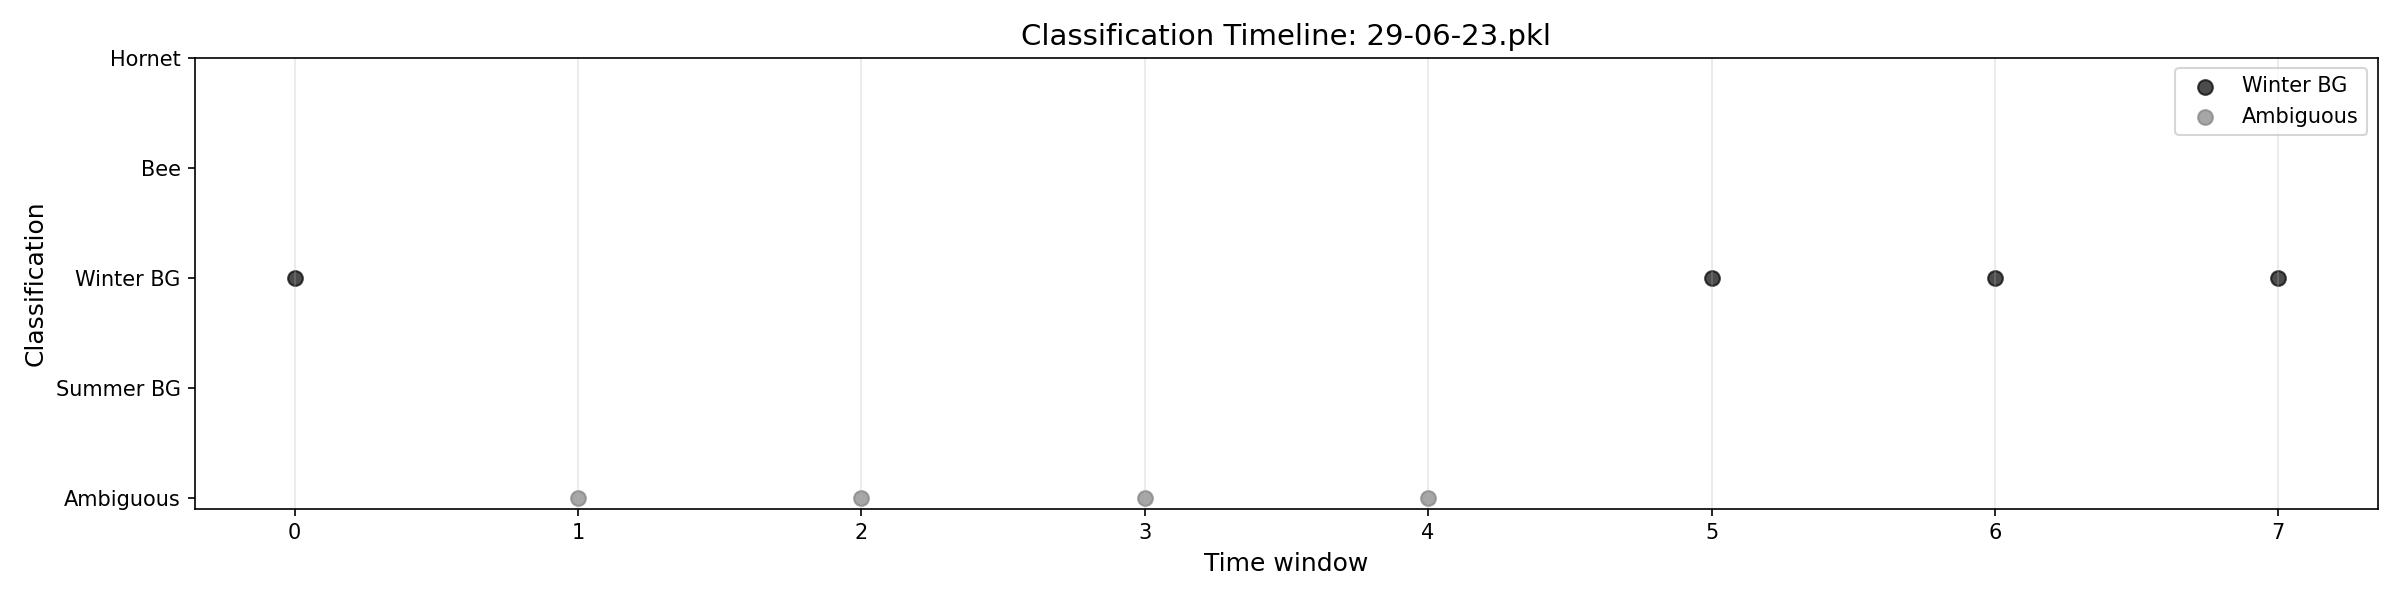
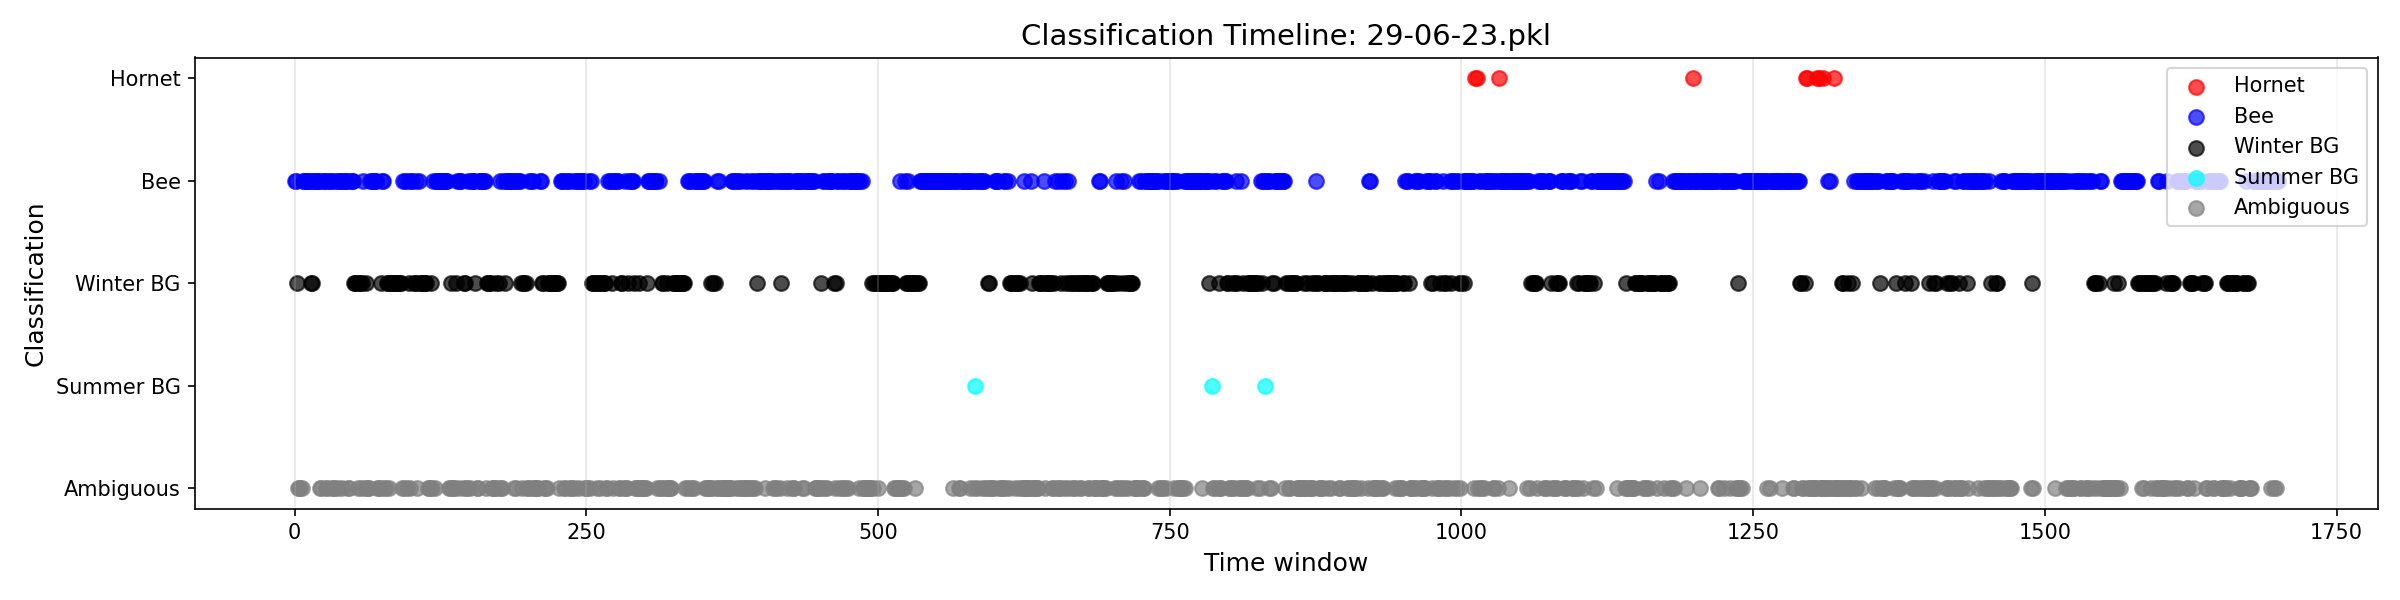
re-run the classification against the full test file for both the algorithmic detection aswell as the ML based one

diff --git a/CCP.py b/CCP.py
@@ -60,7 +60,14 @@ def analyze_audio_file(audio_file, start_min=0, start_sec=0, end_min=0, end_sec=
 
     # Calculate time range
     start_sample = int((start_min * 60 + start_sec) * sample_rate)
-    end_sample = int((end_min * 60 + end_sec) * sample_rate)
+
+    # If end time is not specified (both 0), process entire file from start
+    if end_min == 0 and end_sec == 0:
+        end_sample = len(audio)
+        print(f"  Processing entire file from {start_min}:{start_sec:02.0f}")
+    else:
+        end_sample = int((end_min * 60 + end_sec) * sample_rate)
+        print(f"  Processing {start_min}:{start_sec:02.0f} to {end_min}:{end_sec:02.0f}")
 
     # Extract segment
     U = audio[start_sample:end_sample]
@@ -127,21 +134,49 @@ def main():
     """
     Main function to analyze a test recording.
     """
-    # Example: analyze file 29-06-23.wav from 15:06 to 15:15
-    audio_file = 'data/29-06-23.wav'
+    import argparse
+    import os
+
+    parser = argparse.ArgumentParser(
+        description='Analyze audio recording with CCP (Continuous Cross-correlation Product)'
+    )
+    parser.add_argument('audio_file', type=str, nargs='?', default='data/29-06-23.wav',
+                        help='Path to audio file (default: data/29-06-23.wav)')
+    parser.add_argument('--start-min', type=int, default=0,
+                        help='Start time in minutes (default: 0)')
+    parser.add_argument('--start-sec', type=float, default=0,
+                        help='Start time seconds component (default: 0)')
+    parser.add_argument('--end-min', type=int, default=0,
+                        help='End time in minutes (default: 0 = entire file)')
+    parser.add_argument('--end-sec', type=float, default=0,
+                        help='End time seconds component (default: 0)')
+    parser.add_argument('--increment', type=float, default=1.0,
+                        help='Window increment in seconds (default: 1.0)')
+    parser.add_argument('--output', type=str, default=None,
+                        help='Output pickle file name (default: auto-generate from input)')
+
+    args = parser.parse_args()
 
     print("Starting CCP analysis...")
     print("=" * 60)
 
     df_x, df_y, index_array = analyze_audio_file(
-        audio_file,
-        start_min=15, start_sec=6,
-        end_min=15, end_sec=15,
-        increment_sec=1.0
+        args.audio_file,
+        start_min=args.start_min,
+        start_sec=args.start_sec,
+        end_min=args.end_min,
+        end_sec=args.end_sec,
+        increment_sec=args.increment
     )
 
     # Save results
-    output_file = '29-06-23.pkl'
+    if args.output:
+        output_file = args.output
+    else:
+        # Generate output filename from input
+        base_name = os.path.splitext(os.path.basename(args.audio_file))[0]
+        output_file = f'{base_name}.pkl'
+
     results = {
         'df_x': df_x,
         'df_y': df_y,

diff --git a/classify_with_ml.py b/classify_with_ml.py
@@ -71,7 +71,14 @@ def extract_features_from_audio(audio_file, start_min=0, start_sec=0,
 
     # Calculate time range
     start_sample = int((start_min * 60 + start_sec) * sample_rate)
-    end_sample = int((end_min * 60 + end_sec) * sample_rate)
+
+    # If end time is not specified (both 0), process entire file from start
+    if end_min == 0 and end_sec == 0:
+        end_sample = len(audio)
+        print(f"  Processing entire file from {start_min}:{start_sec:02.0f}")
+    else:
+        end_sample = int((end_min * 60 + end_sec) * sample_rate)
+        print(f"  Processing {start_min}:{start_sec:02.0f} to {end_min}:{end_sec:02.0f}")
 
     # Extract segment
     U = audio[start_sample:end_sample]

diff --git a/README.md b/README.md
@@ -183,18 +183,27 @@ python PCA_DFA.py
 
 ### 4. Analyze New Recordings
 
-Update the audio file path in `CCP.py`:
+Run CCP analysis on audio files:
 
-```python
-audio_file = 'data/29-06-23.wav'
-```
-
-Run CCP analysis:
 ```bash
-python CCP.py
+# Process entire file (default)
+python CCP.py data/29-06-23.wav
+
+# Process specific time segment
+python CCP.py data/29-06-23.wav \
+    --start-min 15 --start-sec 6 \
+    --end-min 15 --end-sec 15
+
+# Process from start time to end of file
+python CCP.py data/29-06-23.wav --start-min 10 --start-sec 0
+
+# Custom output filename
+python CCP.py data/my_recording.wav --output my_results.pkl
 ```
 
 **Output**: `29-06-23.pkl` (DF scores for each time window)
+
+**Note**: The time range you specify here determines what will be classified in the next step!
 
 ---
 
@@ -265,21 +274,25 @@ This will:
 Classify new audio directly without CCP step:
 
 ```bash
+# Classify entire audio file (default behavior)
+python classify_with_ml.py data/29-06-23.wav
+
 # Classify a specific time segment
 python classify_with_ml.py data/29-06-23.wav \
     --start-min 15 --start-sec 6 \
     --end-min 15 --end-sec 15 \
     --increment 1.0
 
-# Classify entire file
+# Classify from start to specific end time
 python classify_with_ml.py data/29-06-23.wav \
     --end-min 10 --end-sec 0
 
 # Custom output filename
 python classify_with_ml.py data/my_recording.wav \
-    --end-min 5 --end-sec 0 \
     --output my_results.pkl
 ```
+
+**Note**: If `--end-min` and `--end-sec` are not specified (or both are 0), the script processes the entire file from the start time.
 
 **Outputs**:
 - `*_ml_classified.pkl`: Classification results with probabilities
@@ -289,19 +302,44 @@ python classify_with_ml.py data/my_recording.wav \
 
 ### Comparing Both Approaches
 
-#### Step 1: Run Both Classifications
+#### Step 1: Run Both Classifications on Same Segment
 
 ```bash
-# Approach A (Polygon) - produces 29-06-23.pkl and 29-06-23_test_results.pkl
-python CCP.py
+# Define the segment to analyze (example: 15:06 to 15:15)
+START_MIN=15
+START_SEC=6
+END_MIN=15
+END_SEC=15
+
+# Approach A (Polygon)
+# Step 1a: Compute DF scores with CCP
+python CCP.py data/29-06-23.wav \
+    --start-min $START_MIN --start-sec $START_SEC \
+    --end-min $END_MIN --end-sec $END_SEC
+
+# Step 1b: Classify using polygons (produces 29-06-23_test_results.pkl)
 python test_recordings.py --file 29-06-23.pkl
 
-# Approach B (ML) - produces 29-06-23_ml_classified.pkl
+# Approach B (ML)
+# Step 2: Train ML model (if not already trained)
 python train_ml_classifiers.py
+
+# Step 3: Classify with ML using SAME segment (produces 29-06-23_ml_classified.pkl)
 python classify_with_ml.py data/29-06-23.wav \
-    --start-min 15 --start-sec 6 \
-    --end-min 15 --end-sec 15
+    --start-min $START_MIN --start-sec $START_SEC \
+    --end-min $END_MIN --end-sec $END_SEC
 ```
+
+**Alternative: Process Entire File**
+
+```bash
+# Both approaches on entire file
+python CCP.py data/29-06-23.wav  # Entire file
+python test_recordings.py --file 29-06-23.pkl
+python classify_with_ml.py data/29-06-23.wav  # Entire file
+```
+
+**Critical**: Both approaches **must process the same time segment** for meaningful comparison!
 
 #### Step 2: Compare Results Visually
 
